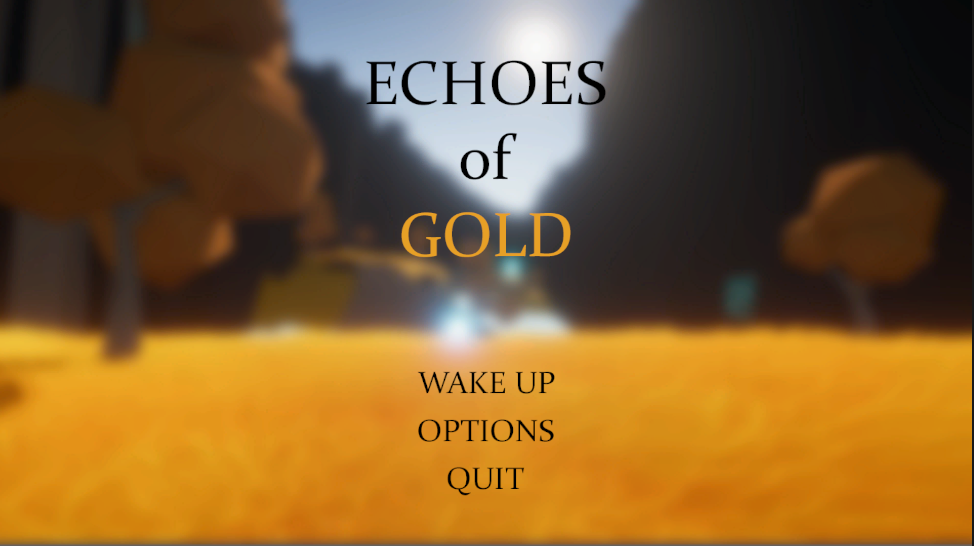
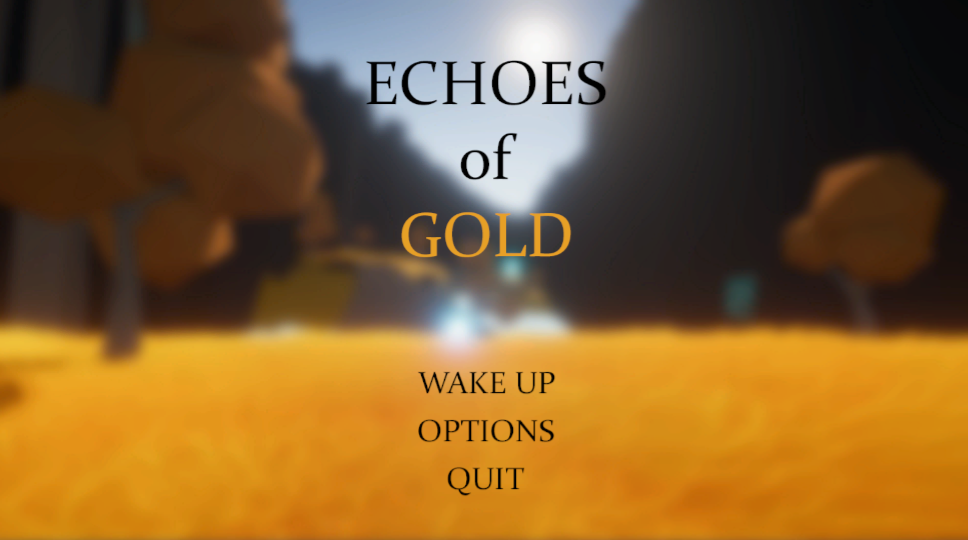
Echoes of gold page finished

diff --git a/Echoes of Gold.html b/Echoes of Gold.html
@@ -1,0 +1,128 @@
+<!DOCTYPE HTML>
+<!--
+	Solid State by HTML5 UP
+	html5up.net | @ajlkn
+	Free for personal and commercial use under the CCA 3.0 license (html5up.net/license)
+-->
+<html>
+	<head>
+		<title>Evan Thiede Portfolio</title>
+		<meta charset="utf-8" />
+		<meta name="viewport" content="width=device-width, initial-scale=1, user-scalable=no" />
+		<link rel="stylesheet" href="assets/css/main.css" />
+		<noscript><link rel="stylesheet" href="assets/css/noscript.css" /></noscript>
+	</head>
+	<body class="is-preload">
+
+		<!-- Page Wrapper -->
+			<div id="page-wrapper">
+
+				<!-- Header -->
+					<header id="header">
+						<h1><a href="index.html">Evan Thiede</a></h1>
+						<nav>
+							<a href="#menu">Menu</a>
+						</nav>
+					</header>
+
+				<!-- Menu -->
+					<nav id="menu">
+						<div class="inner">
+							<h2>Menu</h2>
+							<ul class="links">
+								<li><a href="index.html">Home</a></li>
+								<li><a href="UX.html">UX Design</a></li>
+								<li><a href="3D.html">3D Design</a></li>
+								<li><a href="2D.html">2D Design</a></li>
+								<li><a href="about.html">About</a></li>
+							</ul>
+							<a href="#" class="close">Close</a>
+						</div>
+					</nav>
+
+				<!-- Wrapper -->
+					<section id="wrapper">
+						<header>
+							<div class="inner">
+								<h2>Echoes of Gold</h2>
+								<p>I aimed to recreate an experience similar to those I felt playing environmental games.
+								My inspiration drew heavily from <b>Journey, ABZU,</b> and <b>Far: lone sails</b> for their narrative flow.</p>
+							</div>
+						</header>
+
+						<!-- Content -->
+							<div class="wrapper">
+								<div class="inner">
+									<div class="box alt">
+											<div class="row gtr-uniform">
+												<div class="col-6"><span class="image fit"><img src="images/CanyonV1.png" alt="" /></span></div>
+												<div class="col-6"><span class="image fit"><img src="images/CanyonV2.png" alt="" /></span></div>
+												<p>
+												Liminal spaces were a big draw for my motivation for level design. Echoes of Gold was a 
+												project that I wanted to evoke that inspiration in the player. The feeling of being at peace,
+												but also mildy uneasy. The lack of understanding and the sheer solitary nature of environment
+												creates the feeling that you are somewhere that you are not supposed to be, while still being visually striking.											
+												</p>
+												<div class="col-12"><span class="image fit"><img src="images/Echoes of Gold Title.png" alt="" /></span></div>
+												
+												<p><span class="image right"><img src="images/gully.jpg" alt="" /></span>
+												This project was my dive into solo development. Start to finish, I learned all the tools
+												necessary to bring this game to life. 
+												</br>
+												</br>
+												As my first big project, there are elements of my process
+												that I would improve upon, looking back now. Limited greybox work meant I was redesigning 
+												the environment from scratch a few times. My vision was so wide as a new designer, that I had too much 
+												planned and none of the skills yet.
+												</br>
+												</br>
+												The experience of creating the world of Echoes of Gold was truly one of my favorites. 
+												I was able to learn a lot looking back upon this project. Usability testing and UX research were a 
+												shortcoming being so new to the parallel workflow of UX with game development. I am proud of the 
+												experience that I was able to create as an introduction piece. I am confident that going back now,
+												armed with level design, UX design, and usability study skills, I would be able to improve upon this project drastically. 
+												</p>
+												<div class="col-7"><span class="image fit"><img src="images/CloudIsland.png" alt="" /></span></div>
+												<div class="col-5"><span class="image fit"><img src="images/GodRays.png" alt="" /></span></div>
+											</div>
+										</div>
+
+								</div>
+							</div>
+
+					</section>
+
+				<!-- Footer -->
+					<section id="footer">
+						<div class="inner">
+							<h2 class="major">Get in touch</h2>
+							<p>
+							Interested in my work? Feel free to reach out to me through any of the channels below. 
+							I would love to discuss projects or just have a conversation.
+							</p>
+							
+							<ul class="contact">
+								
+								
+								<li class="icon solid fa-envelope"><a href="#">[email redacted]</a></li>
+								<li class="icon brands fa-linkedin"><a href="https://www.linkedin.com/in/evan-thiede/" target="blank">linkedin.com/in/evan-thiede/</a></li>
+								<li class="icon solid fa-home">Location: Seattle, Washington </li>
+							</ul>
+							<ul class="copyright">
+								<li>&copy; Evan Thiede. All rights reserved.</li><li>Design: <a href="http://html5up.net">HTML5 UP</a></li>
+							</ul>
+						</div>
+					</section>
+
+			</div>
+
+		<!-- Scripts -->
+			<script src="assets/js/jquery.min.js"></script>
+			<script src="assets/js/jquery.scrollex.min.js"></script>
+			<script src="assets/js/browser.min.js"></script>
+			<script src="assets/js/breakpoints.min.js"></script>
+			<script src="assets/js/util.js"></script>
+			<script src="assets/js/main.js"></script>
+
+	</body>
+</html>